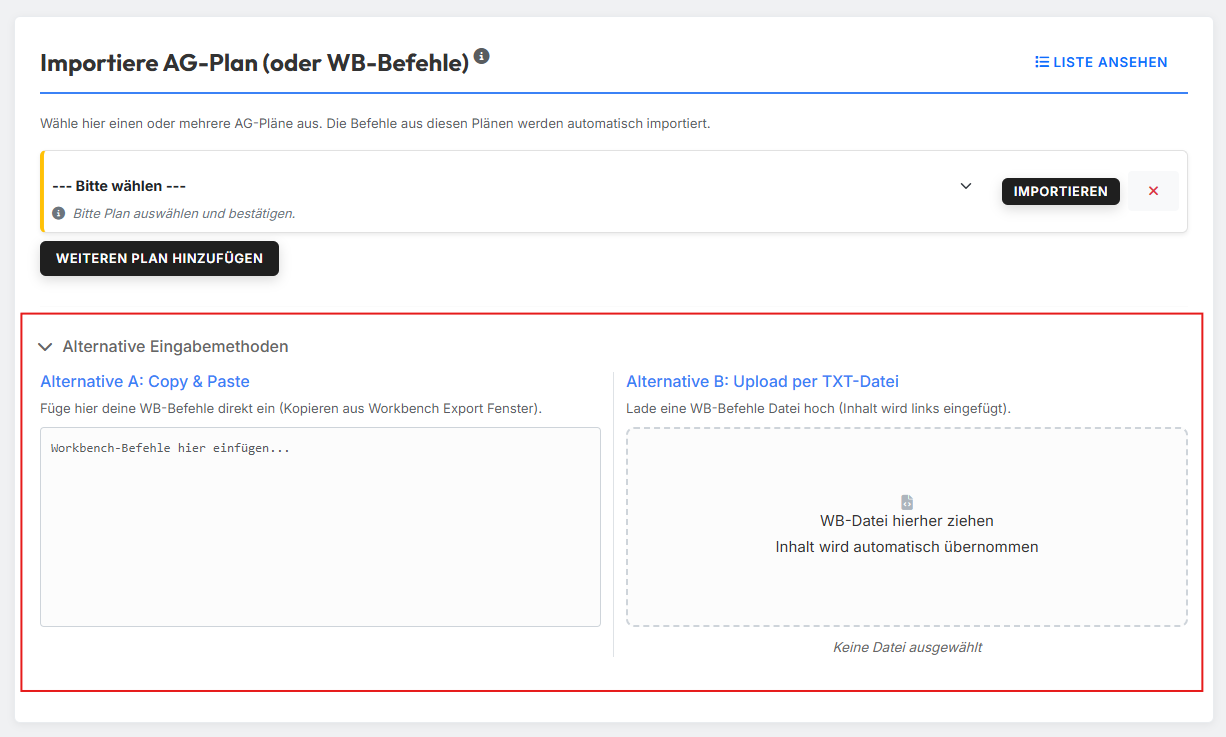
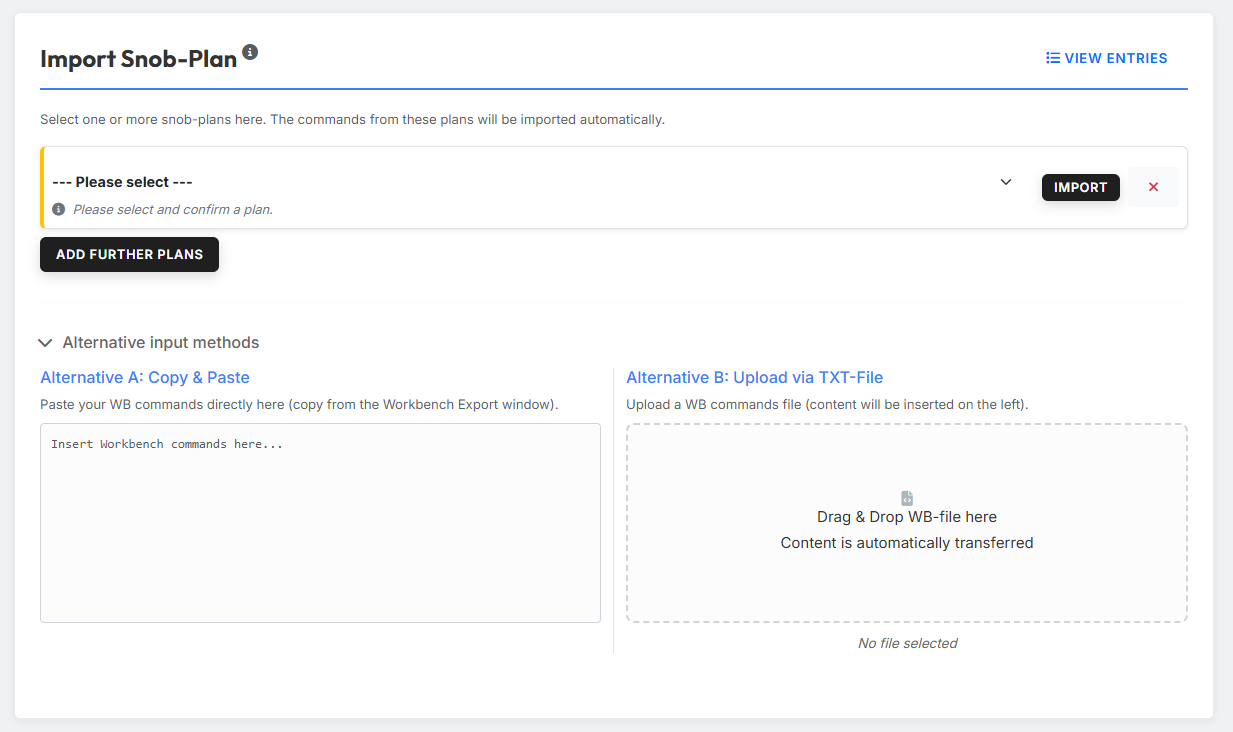
V2.5

diff --git a/docs/cleaner-fake-ut/anleitung.en.md b/docs/cleaner-fake-ut/anleitung.en.md
@@ -1,17 +1,16 @@
 # Instructions
 
-The tool calculates **cleaners** and **fake-support commands** whose launch
+The tool calculates **cleaners** and **Fake-Sup commands** whose launch
 times are placed as close as possible to another command — typically a
-nobleman or train. This lets you add cleaners and fake supports with
-perfect timing alongside an existing snob plan.
+nobleman or train. This lets you add cleaners and Fake-Sup with perfect
+timing alongside an existing snob plan.
 
 ## 1. Import troops
 
 ![Troop import](../assets/cleaner-fake-ut-tool/01_troop_import.png){ .screenshot }
 
 In the **"Troop data"** section you upload the troops from which the
-cleaners and fake supports should be calculated. There are two ways to do
-this.
+cleaners and Fake-Sup should be calculated. There are two ways to do this.
 
 ### Option A: Copy & Paste
 
@@ -37,12 +36,12 @@ via the
 
 ![Snob-plan import](../assets/cleaner-fake-ut-tool/02_import_snob_plan.png){ .screenshot }
 
-In the **"Import snob plan"** section you select a snob plan that was
+In the **"Import Snob-Plan"** section you select a snob plan that was
 already created in tw-utils. The commands from that plan are imported
 automatically — based on them, the tool then calculates the matching
-cleaners and fake supports.
+cleaners and Fake-Sup.
 
-Click **"Add another plan"** to import several plans one after the other.
+Click **"Add further plans"** to import several plans one after the other.
 
 !!! info "View entries"
     Use the **"View entries"** button to inspect the imported snob commands
@@ -58,7 +57,7 @@ paths:
 
 - **Alternative A: Copy & Paste** — paste the Workbench commands directly
   into the text field (e.g. copied from the Workbench export window).
-- **Alternative B: Upload via TXT file** — upload a TXT file containing
+- **Alternative B: Upload via TXT-File** — upload a TXT file containing
   Workbench commands; the content is read into the tool automatically.
 
 ## 3. Settings
@@ -80,30 +79,30 @@ of the cleaner — as a count of **axemen** and **light cavalry**.
 You can also configure:
 
 - **Cleaners per target** — how many cleaners are planned per target.
-- **Cleaners per source village** — how many cleaners can be sent from the
-  same source village at most.
+- **Cleaners per origin village** — how many cleaners can be sent from the
+  same origin village at most.
 - **Icon** — which icon the cleaner commands should receive.
 
-### Fake support
+### Fake-Sup
 
-![Fake-support settings](../assets/cleaner-fake-ut-tool/05_settings_fake-sup.png){ .screenshot }
+![Fake-Sup settings](../assets/cleaner-fake-ut-tool/05_settings_fake-sup.png){ .screenshot }
 
-Use the **"Plan fake support?"** toggle to activate the fake-support
-calculation. Afterwards, two checkboxes are available:
+Use the **"Plan Fake-Sup?"** toggle to activate the Fake-Sup calculation.
+Afterwards, two checkboxes are available:
 
-- **"Plan fake support only from defense villages"** — restricts the
-  source-village selection to purely defensive villages.
-- **"Don't plan light cavalry or scouts as fake support"** — excludes fast
-  units from being used as fake support.
+- **"Send Fake-Sup only from def-villages"** — restricts the origin-village
+  selection to purely defensive villages.
+- **"do not allow light cavalry and scouts being planned as Fake-Sup"** —
+  excludes fast units from being used as Fake-Sup.
 
 !!! info "World settings are taken into account"
-    When planning fake support, the tool takes the world settings around
+    When planning Fake-Sup, the tool takes the world settings around
     tribe-internal support into account.
 
-You can also set the **fake-support count** and select the **icon** that is
-assigned to the fake-support commands.
+You can also set the **Number of Fake-Sup** and select the **icon** that is
+assigned to the Fake-Sup commands.
 
 ## 4. Start the calculation
 
-Clicking the **"Start calculation"** button runs the calculation of the
-cleaners and fake supports.
+Clicking the **"Start Calculation"** button runs the calculation of the
+cleaners and Fake-Sup.
